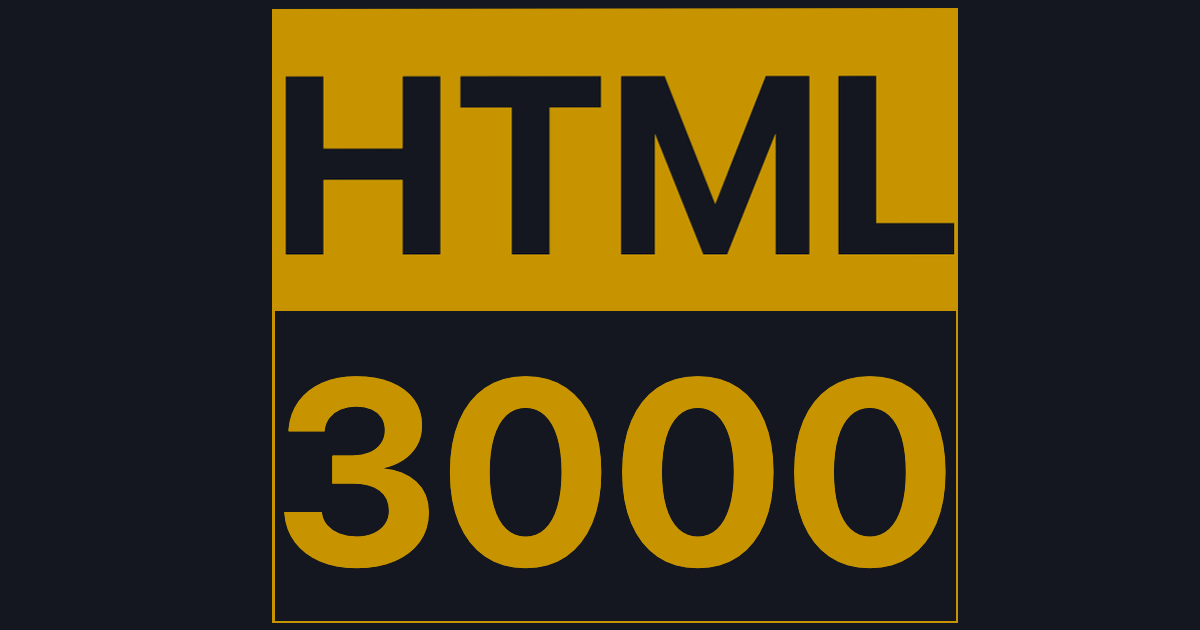
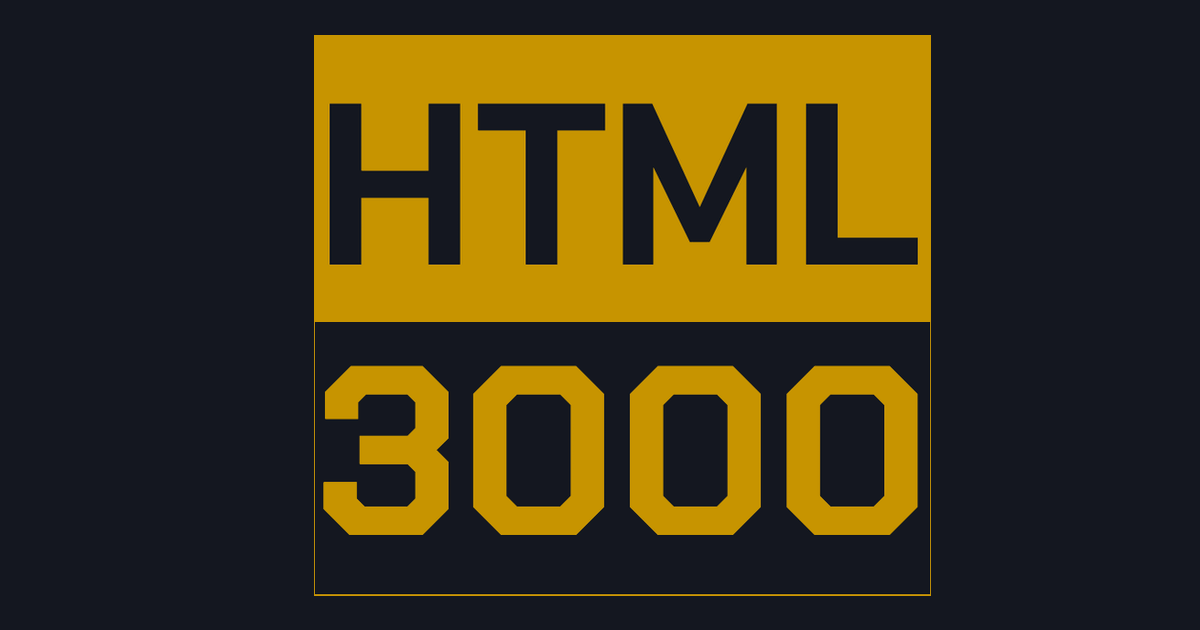
Design tweaks

diff --git a/docs/css/main.css b/docs/css/main.css
@@ -1,3 +1,8 @@
+:root {
+  --heading-font: "Chakra Petch", sans-serif;
+  --heading-font-weight: 400;
+}
+
 @media (min-width: 1536px) {
   body > main {
     max-width: 50%;
@@ -10,10 +15,18 @@
   }
 }
 
+h1,
+h2,
+h3 {
+  font-family: var(--heading-font);
+  font-weight: var(--heading-font-weight);
+}
+
 logo {
+  font-family: var(--heading-font);
+  font-weight: bold;
   display: block;
   font-size: 7.5vw;
-  font-weight: bold;
   color: var(--pico-primary);
   margin-bottom: 1rem;
 }
@@ -31,6 +44,7 @@ logo-inner em {
 
 copyright {
   display: block;
+  font-family: var(--heading-font);
   text-align: center;
   padding-top: 24px;
   margin-top: 48px;

diff --git a/docs/index.html b/docs/index.html
@@ -40,6 +40,14 @@
     />
     <meta name="twitter:image:alt" content="HTML3000" />
 
+    <!-- Fonts -->
+    <link rel="preconnect" href="https://fonts.googleapis.com" />
+    <link rel="preconnect" href="https://fonts.gstatic.com" crossorigin />
+    <link
+      href="https://fonts.googleapis.com/css2?family=Chakra+Petch:ital,wght@0,300;0,400;0,500;0,600;0,700;1,300;1,400;1,500;1,600;1,700&display=swap"
+      rel="stylesheet"
+    />
+
     <!-- Styles -->
     <link rel="stylesheet" href="css/pico.colors.min.css" />
     <link rel="stylesheet" href="css/pico.classless.amber.min.css" />
